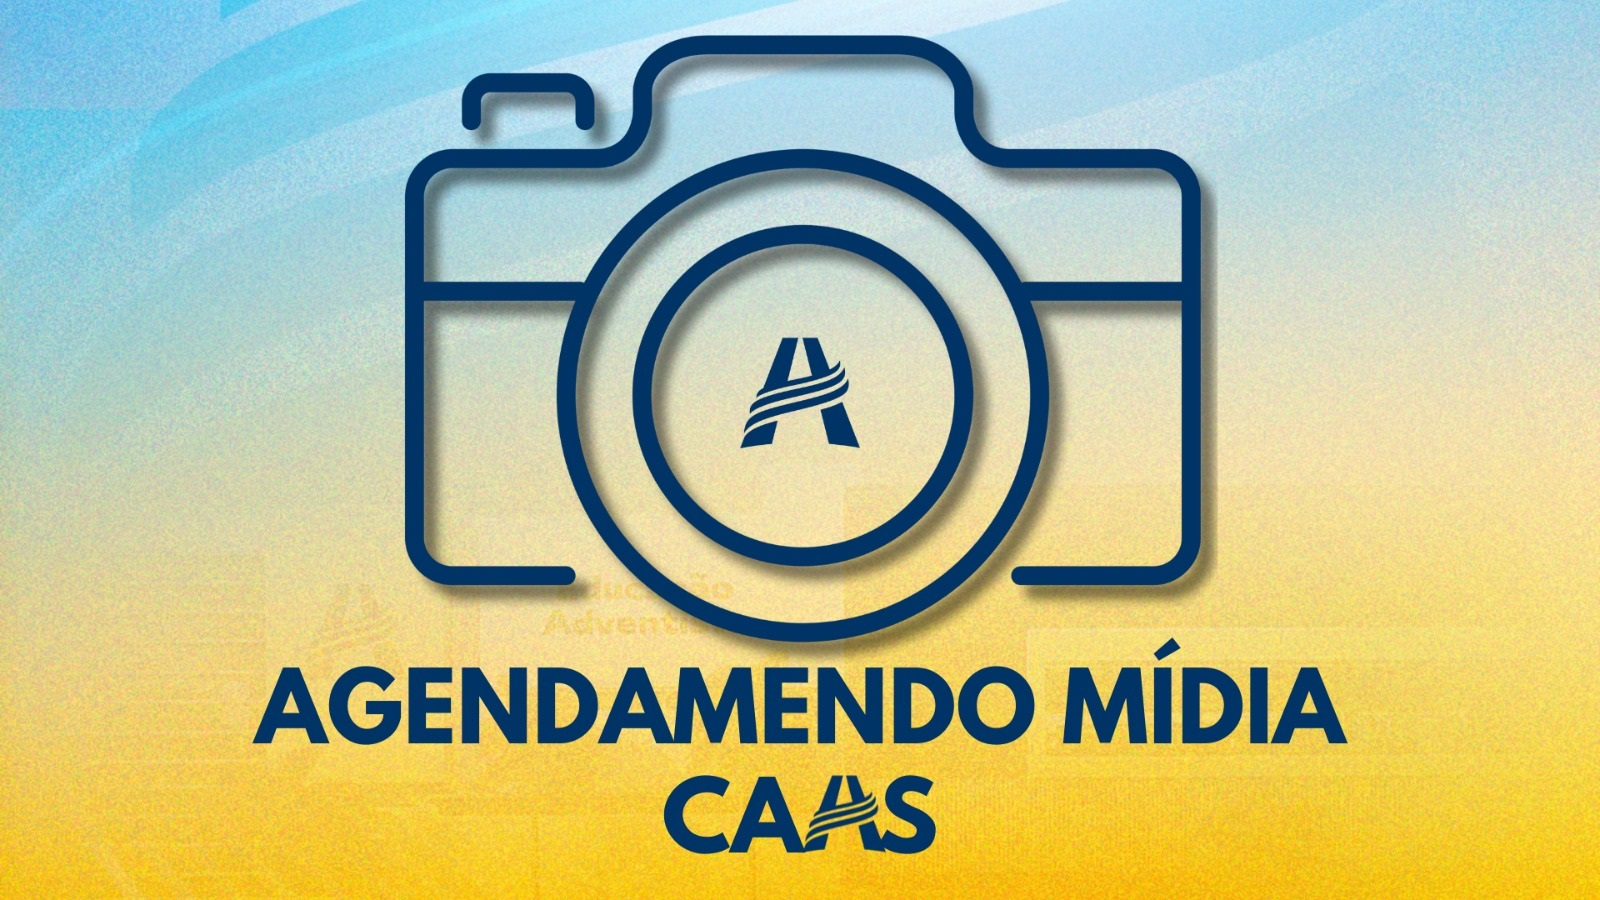
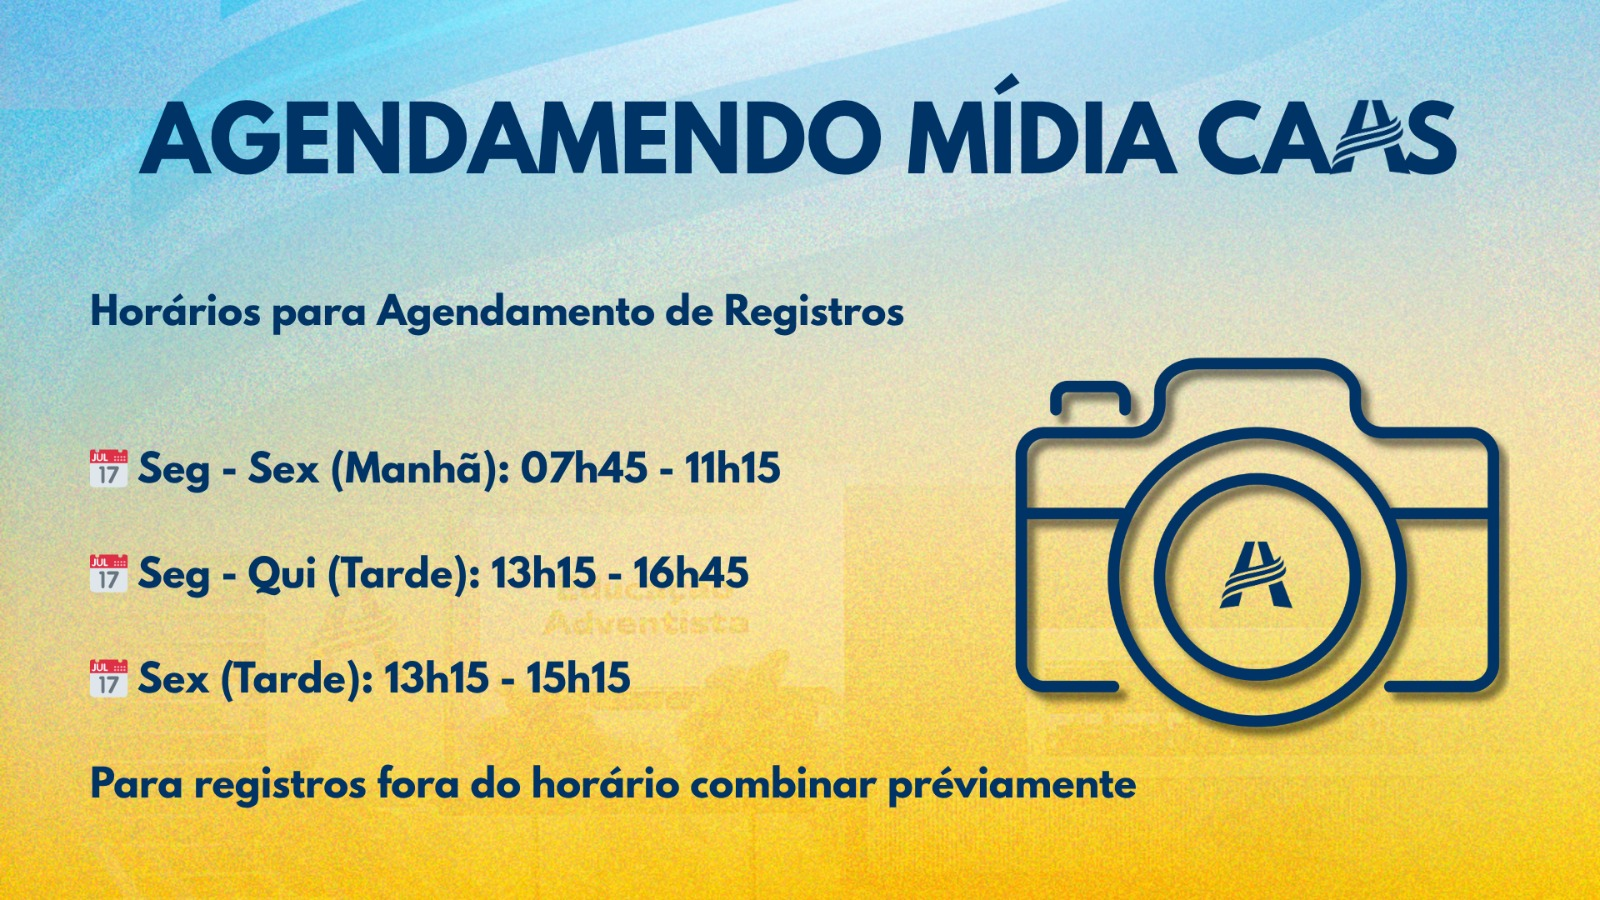
Horario final de semana e foto

Changed region(s): [[0.0312, 0.0311, 0.9688, 0.9644]]

diff --git a/public/script.js b/public/script.js
@@ -182,8 +182,10 @@ document.getElementById("form-agendamento").addEventListener("submit", async (e)
   const tardeInicio = 13 * 60 + 15;
   const tardeFimSegQui = 16 * 60 + 45;
   const tardeFimSex = 15 * 60 + 15;
+  const fimDeSemanaInicio = 7 * 60;
+  const fimDeSemanaFim = 22 * 60;
 
-    if (diaSemana >= 1 && diaSemana <= 5) {
+  if (diaSemana >= 1 && diaSemana <= 5) {
     if (inicioTotal >= manhaInicio && fimTotal <= manhaFim) {
       turnoValido = true;
     }
@@ -194,13 +196,14 @@ document.getElementById("form-agendamento").addEventListener("submit", async (e)
         turnoValido = true;
       }
     }
-  } else {
-    alert("Não é permitido agendar aos finais de semana.");
-    return;
+  } else if (diaSemana === 0 || diaSemana === 6) {
+    if (inicioTotal >= fimDeSemanaInicio && fimTotal <= fimDeSemanaFim) {
+      turnoValido = true;
+    }
   }
 
   if (!turnoValido) {
-    alert("Horário fora dos intervalos permitidos:\n\n• Manhã: 07:45 – 11:15\n• Tarde (Seg–Qui): 13:15 – 16:45\n• Tarde (Sex): 13:15 – 15:15");
+       alert("Horário fora dos intervalos permitidos:\n\n• Manhã: 07:45 – 11:15\n• Tarde (Seg–Qui): 13:15 – 16:45\n• Tarde (Sex): 13:15 – 15:15\n• Fim de semana: 07:00 – 22:00");
     return;
   }
 
@@ -247,8 +250,8 @@ document.getElementById("data").addEventListener("change", function () {
     texto += "\n• Tarde: 13:15 – 16:45";
   } else if (diaSemana === 5) {
     texto += "\n• Tarde: 13:15 – 15:15";
-  } else {
-    texto = "Agendamento não permitido aos finais de semana.";
+  } else if (diaSemana === 6 || diaSemana === 0) {
+    texto = "Horários permitidos:\n• Fim de semana: 07:00 – 22:00";
   }
 
   dicas.forEach(el => el.textContent = texto);

diff --git a/public/index.html b/public/index.html
@@ -41,6 +41,10 @@
           <label for="local">Local</label>
           <input type="text" id="local" required />
         </div>
+         <div class="form-group">
+          <label for="evento">Tipo de Evento</label>
+          <input type="text" id="evento" required />
+        </div>
         <div class="form-group">
           <label for="data">Data</label>
           <input type="date" id="data" required />
@@ -48,12 +52,12 @@
         <div class="form-group">
           <label for="inicio">Início</label>
           <input type="time" id="inicio" required min="07:00" max="18:00" />
-          <small class="dica-horario">Horário permitido: 07:00 às 18:00</small>
+          
         </div>
         <div class="form-group">
           <label for="fim">Fim</label>
           <input type="time" id="fim" required min="07:00" max="18:00" />
-          <small class="dica-horario">Horário permitido: 07:00 às 18:00</small>
+          
         </div>
         <div class="form-group full-width">
           <button type="submit">Agendar</button>
@@ -74,6 +78,7 @@
                 <th>Agendante</th>
                 <th>Turma</th>
                 <th>Local</th>
+                <th>Tipo de Evento</th>
                 <th>Data</th>
                 <th>Início</th>
                 <th>Fim</th>
